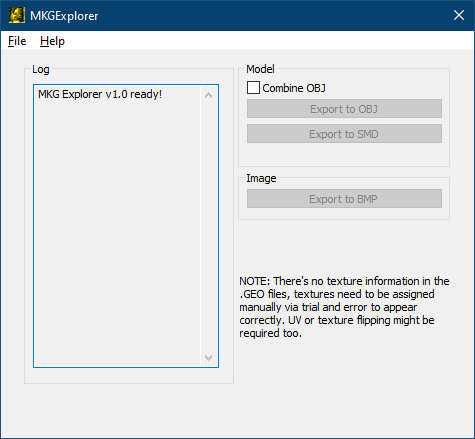
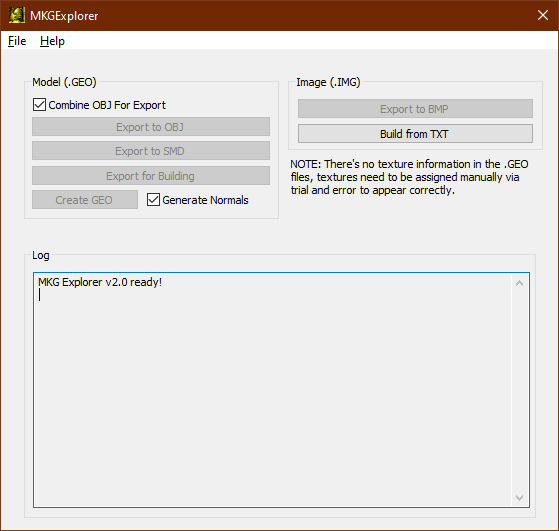
big mkgexplorer update

diff --git a/_posts/tools/2021-06-20-mkgexplorer.md b/_posts/tools/2021-06-20-mkgexplorer.md
@@ -10,15 +10,14 @@ description: MKGExplorer allows you to convert files from Mortal Kombat Gold.
 
 ![Preview](https://raw.githubusercontent.com/ermaccer/ermaccer.github.io/gh-pages/assets/tools/mkg/mkgexplorer.png)
 
-MKGExplorer allows you to convert files from Mortal Kombat Gold.
+MKGExplorer allows you to convert files from and to Mortal Kombat Gold.
 
 
 ### Features
-- Convert:
-	- GEO
-		- To OBJ or SMD
-	- IMG
-		- To BMP
+- Converts GEO models to OBJ or SMD
+- Converts IMG files to BMP
+- Saves any metadata required to rebuild both file types
+- 3D model replacing support with an option to generate normals for problematic models
 
 
 ![Preview](https://raw.githubusercontent.com/ermaccer/ermaccer.github.io/gh-pages/assets/tools/mkg/preview.png)
